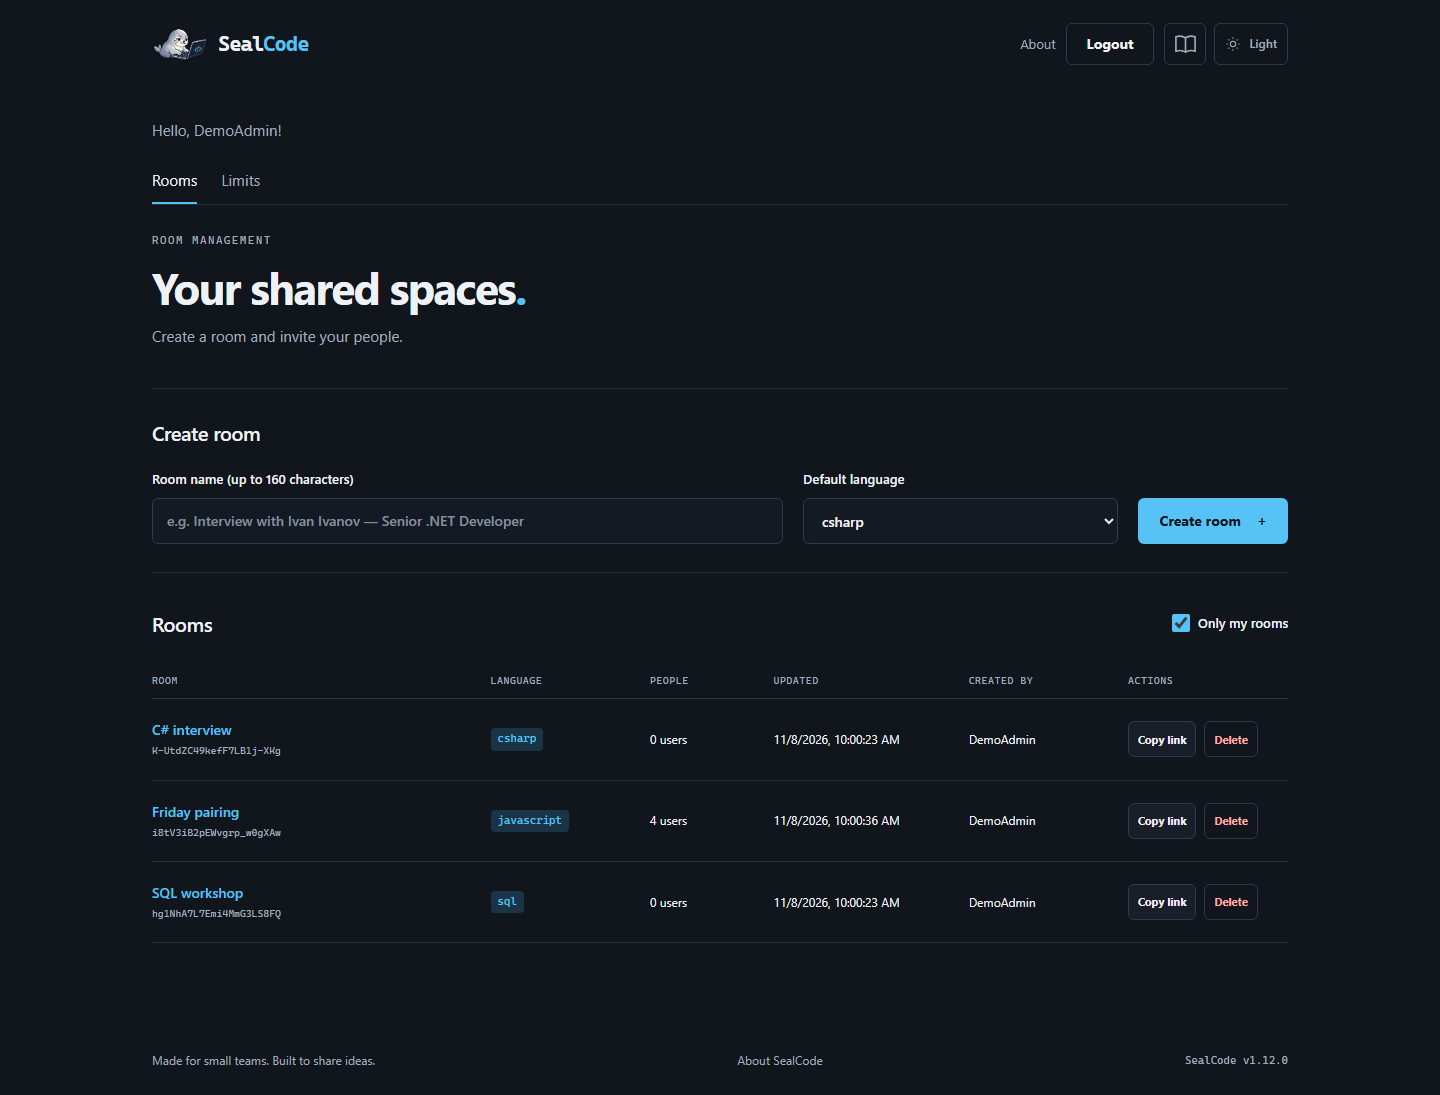
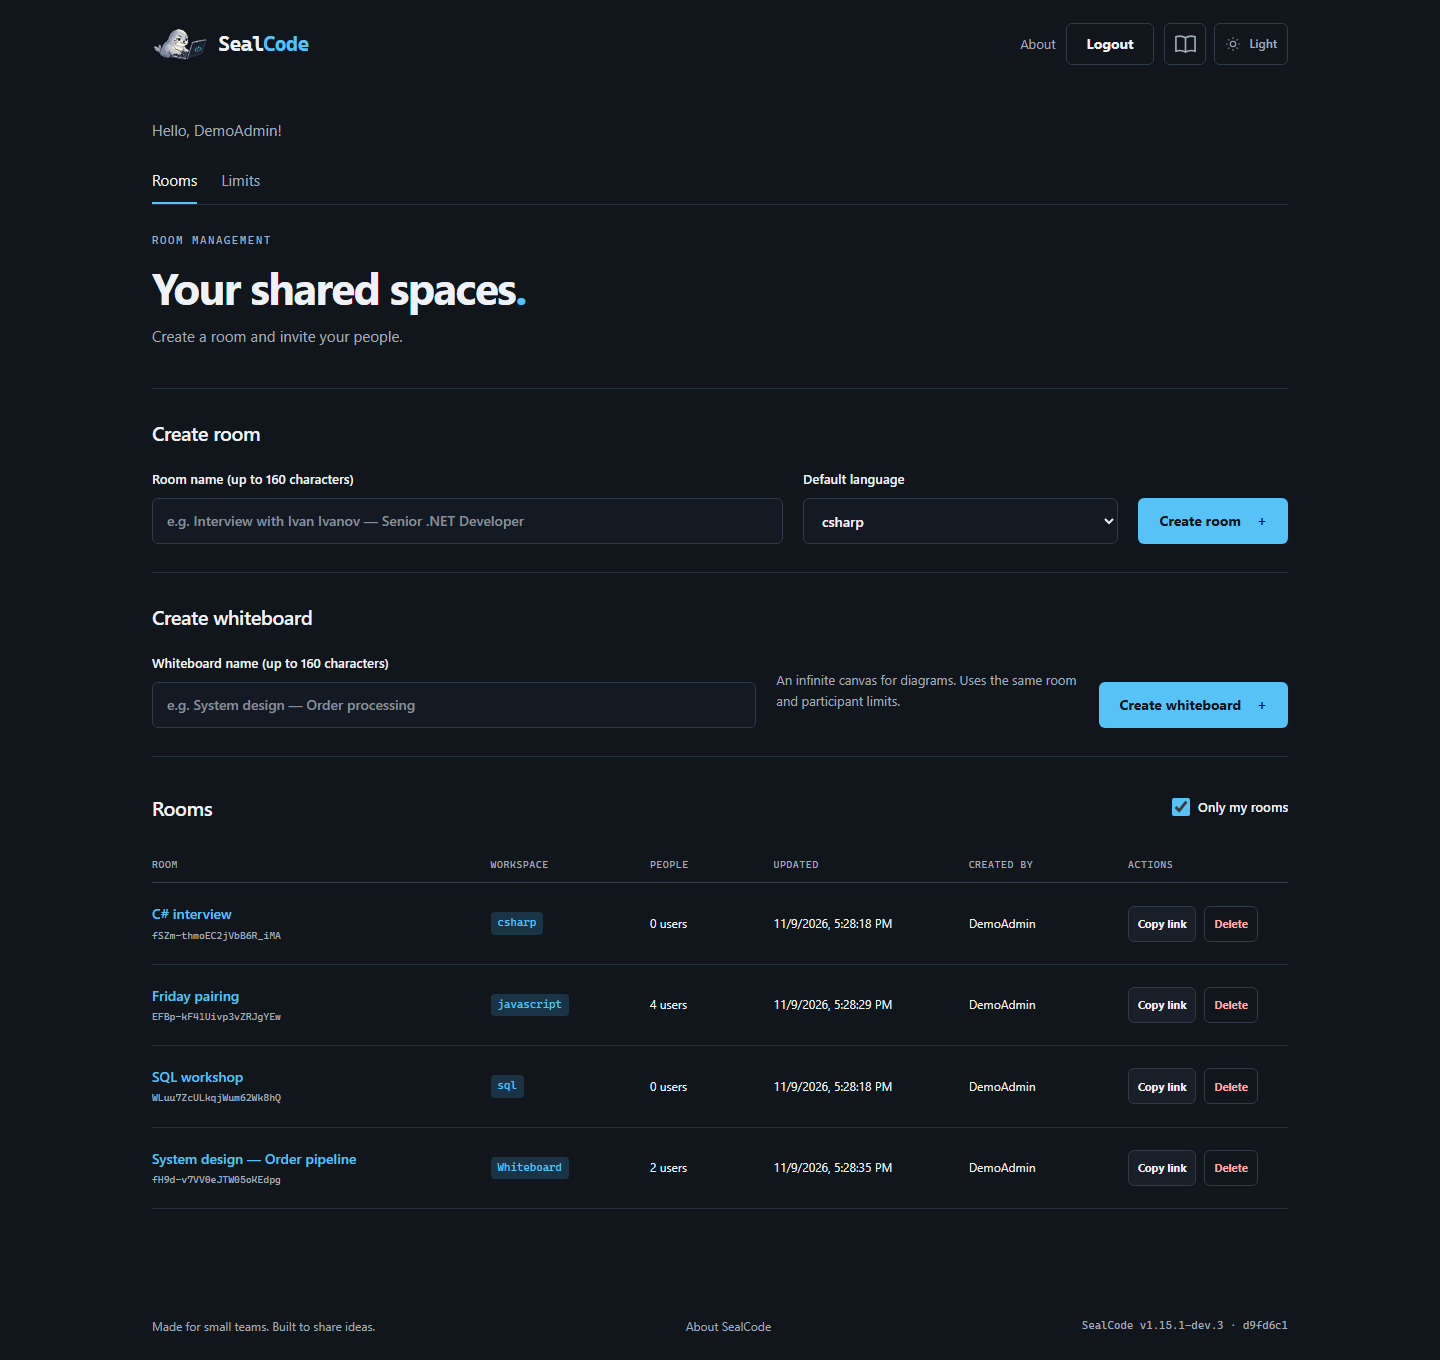
Refresh room management and workspace screenshots with verification report

diff --git a/README.md b/README.md
@@ -41,22 +41,47 @@ Paste a link to join a room, open room management, or change the theme from the 
 | --- | --- |
 | ![Home page in dark theme with the pixel seal and invitation form](docs/images/home-dark.png) | ![Home page in light theme with the same invitation form](docs/images/home-light.png) |
 
-### Room management and joining
+### Room management
 
-The admin view shows participant counts, room languages, owners and update times. Guests enter a display name before opening the shared editor.
+The admin panel has separate **Create room** and **Create whiteboard** forms.
+Code rooms require a language; whiteboards only require a name. Both share the
+same room and participant limits. The room list shows the language or Whiteboard
+workspace, participant count, owner, update time, invitation link and deletion
+action. **Only my rooms** filters the list to the signed-in admin's rooms.
 
-| Admin room management | Join a shared room |
+| Admin room management (dark) | Admin room management (light) |
 | --- | --- |
-| ![Admin panel with JavaScript, SQL and C# rooms, four connected users, and copy-link and delete actions](docs/images/admin-rooms.png) | ![Join dialog with a display-name field and a theme switch](docs/images/join-room.png) |
+| ![Admin panel with separate code-room and whiteboard creation forms and a mixed room list](docs/images/admin-rooms.png) | ![The same room-management controls and mixed room list in light theme](docs/images/admin-rooms-light.png) |
 
-<details>
-<summary>Shared editor in light theme</summary>
+### Joining a room
 
-The editor, participant bar and surrounding controls follow the same theme.
+Guests follow an invitation link and choose a display name before entering the
+shared workspace. They do not need an admin account.
 
-![Shared JavaScript editor in light theme with four participants](docs/images/room-light.png)
+![Room join dialog with a display-name field and theme switch](docs/images/join-room.png)
 
-</details>
+### Code rooms
+
+Monaco fills the workspace below the room name, connection status, shared language
+selector and participant bar. Participants can edit together and see remote
+cursors and typing, selection and copy indicators.
+
+| Code room (dark) | Code room (light) |
+| --- | --- |
+| ![Collaborative JavaScript room with four participants, syntax highlighting and presence indicators in dark theme](docs/images/room-dark.png) | ![The shared code editor and participant bar in light theme](docs/images/room-light.png) |
+
+### Whiteboard workspace
+
+Whiteboard rooms replace the code editor with an infinite diagram canvas and a
+drawing toolbar. The room header, participants and connection status stay
+familiar. Labels, arrows, database and queue symbols cover the essentials for
+system design interviews; the bottom controls provide undo/redo, deletion, zoom,
+Fit and a local JSON download. See [Whiteboard rooms](#whiteboard-rooms) for
+shortcuts, collaboration behavior and current limitations.
+
+| Whiteboard (dark) | Whiteboard (light) |
+| --- | --- |
+| ![Shared order-processing diagram with client, API, database, queue and workers in dark theme](docs/images/whiteboard-dark.png) | ![The same labeled system-design diagram in light theme](docs/images/whiteboard-light.png) |
 
 <details>
 <summary>Mobile home and room management</summary>
@@ -68,6 +93,15 @@ The editor, participant bar and surrounding controls follow the same theme.
 </details>
 
 <details>
+<summary>Mobile code and whiteboard rooms</summary>
+
+| Code room | Whiteboard |
+| --- | --- |
+| <img src="docs/images/room-mobile.png" alt="Mobile code room with language selector, participant presence and shared editor" width="280" /> | <img src="docs/images/whiteboard-mobile.png" alt="Mobile whiteboard with a fitted system-design diagram and drawing controls" width="280" /> |
+
+</details>
+
+<details>
 <summary>Admin sign-in</summary>
 
 ![Admin login screen with the pixel seal, username and password fields](docs/images/admin-login.png)
@@ -75,10 +109,6 @@ The editor, participant bar and surrounding controls follow the same theme.
 </details>
 
 ## Whiteboard rooms
-
-| Dark theme | Light theme |
-| --- | --- |
-| ![Collaborative whiteboard with system design primitives in dark theme](docs/images/whiteboard-dark.png) | ![The same shared diagram in light theme](docs/images/whiteboard-light.png) |
 
 In the admin panel, use **Create whiteboard** with a name. **Create room** continues
 creating code rooms with a language. Both appear in the same list and use the same
@@ -974,6 +1004,9 @@ Coverage reports are separate:
   The goal is to raise line coverage to at least 80% by covering the browser composition
   and Monaco adapters.
 
+The [whiteboard verification report](docs/whiteboard-verification.md) records
+the feature's regression scenarios, measured coverage and remaining coverage gaps.
+
 ### Refreshing the README screenshots
 
 With Node.js 20+, the .NET 10 SDK and the repository dependencies installed:
@@ -984,7 +1017,8 @@ node scripts/capture-readme.mjs
 ```
 
 The script builds the client and server, starts an isolated loopback instance
-with disposable demo settings, creates three rooms, and connects four participants.
+with disposable demo settings, creates three code rooms and one whiteboard, and connects four code-room
+participants plus two whiteboard participants.
 The demo enables the private question library and captures both its popup and a
 separate SQL tab. Typing, selection and copy indicators come from actual editor actions. It replaces
 `Room.png`, `UIColors.png` and the images in `docs/images/`, then closes its browser

diff --git a/docs/whiteboard-verification.md b/docs/whiteboard-verification.md
@@ -1,0 +1,82 @@
+# Whiteboard verification
+
+Verified on 2026-11-09 against the repository's existing .NET 10, JavaScript,
+formatting and coverage configuration. Coverage thresholds and exclusions were
+not relaxed. Local application settings were preserved.
+
+## Standards and validation
+
+- `dotnet format src/SealCode.slnx --verify-no-changes --no-restore` passed for the
+  entire solution, including tests.
+- `npm run typecheck` passed. The client keeps the established two-space
+  indentation, single quotes, local bundles and a single Yjs instance.
+- The application build completed with zero warnings and errors.
+- `git diff --check` passed; all 22 image references in README resolve locally.
+
+## Tests and coverage
+
+| Validation | Result |
+| --- | --- |
+| C# solution with XPlat Code Coverage | 645 passed, 9 skipped |
+| Client unit tests with c8 | 157 passed |
+| Affected Chromium regression suites | 18 passed |
+| Full screenshot generation through the real UI | Passed without browser runtime errors or page overflow |
+
+The Chromium suites cover appearance, admin rooms, local assets/CSP,
+collaborative undo, selection state and whiteboards. This was a targeted
+regression run, not a claim that the entire browser suite was rerun.
+PostgreSQL tests were skipped because their optional database test connections
+were not configured; whiteboards use the existing in-memory room registry.
+
+ReportGenerator merged five server reports by source, rather than averaging
+project percentages: **92.5% lines**, **86.9% branches**, **98% methods**.
+RoomState, RoomView, RoomManager, RoomRegistry, CreateRoomRequest, JoinRoomResult,
+RoomSummary and the public endpoint-routing module have **100% line coverage**.
+
+| Client scope | Lines | Branches | Functions |
+| --- | --- | --- | --- |
+| All modules counted by the existing c8 configuration | 74.44% | 91.46% | 93.92% |
+| Whiteboard model | 100% | 100% | 100% |
+| Whiteboard view/controller | 100% | 98.22% | 93.1% |
+| Required CI floors | 68% | 87% | 90% |
+
+The current CI floors are satisfied. Overall client line coverage remains below
+the documented **80% improvement goal**. In particular, room-application,
+room-connection, monaco-adapter and the whiteboard entry point are exercised by
+browser scenarios, but have no Node unit coverage. Browser execution is not
+silently counted as coverage in the c8 figures above.
+
+Local artifacts from this verification:
+
+- `output/whiteboard-review/merged/index.html` and `Summary.txt`: merged server coverage.
+- `coverage/client/lcov.info`: client coverage under the existing npm command.
+- `output/whiteboard-review-server-final.log`: final successful C# solution run.
+- `output/whiteboard-review-client.log`: final successful client test run.
+- `output/whiteboard-review-screenshots-final.log`: screenshot build and UI checks.
+
+## Regression cases and corrections
+
+- Legacy room-creation JSON retains the code-room default; explicit whiteboard
+  requests and null kinds remain compatible. Unknown domain room kinds fail.
+- Whiteboard language changes check membership first, reject the change and
+  preserve the room's language, version, revisions and update timestamp.
+- Code rooms and whiteboards share room and participant capacity and deletion
+  rules. Two participants converge on the diagram after reconnecting.
+- A late participant restores a whiteboard after a real server checkpoint has
+  been accepted, then edits the restored document successfully.
+- Separate elements merge through Yjs; local undo retains remote changes.
+  Remote deletion during a local drag or label edit does not resurrect a shape.
+- Toolbar Enter/Space now retain native button activation instead of opening
+  labels or starting a pan. A second pointer cannot replace or cancel the
+  first pointer's active gesture.
+- Remote Monaco caret rendering is deferred and coalesced after the current
+  decoration transaction. A unit regression checks transaction/reentrancy
+  behavior; screenshot scenarios with four code participants no longer report
+  recursive `deltaDecorations` errors.
+- Screenshot generation now includes a mixed admin room list, both themes of
+  both workspaces, and mobile code/whiteboard views. It rejects browser runtime
+  errors instead of only logging them.
+
+Same-element CRDT updates still resolve as whole-element map writes; this review
+does not claim independent merging of every property or collaborative Y.Text
+labels. Room state remains in memory, as documented in README.
